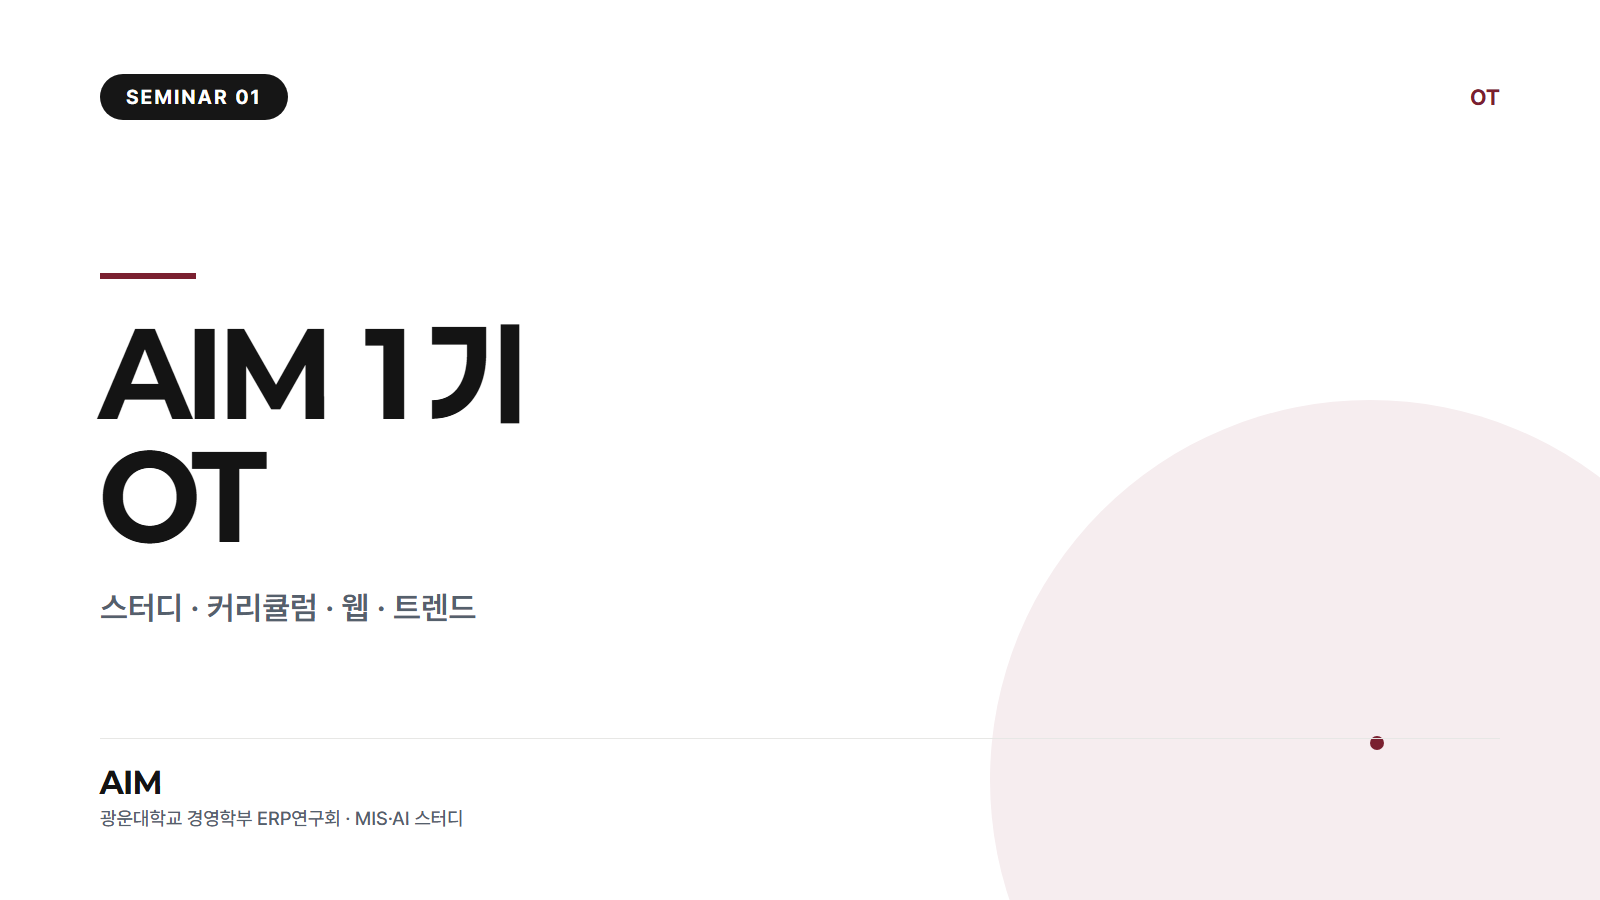
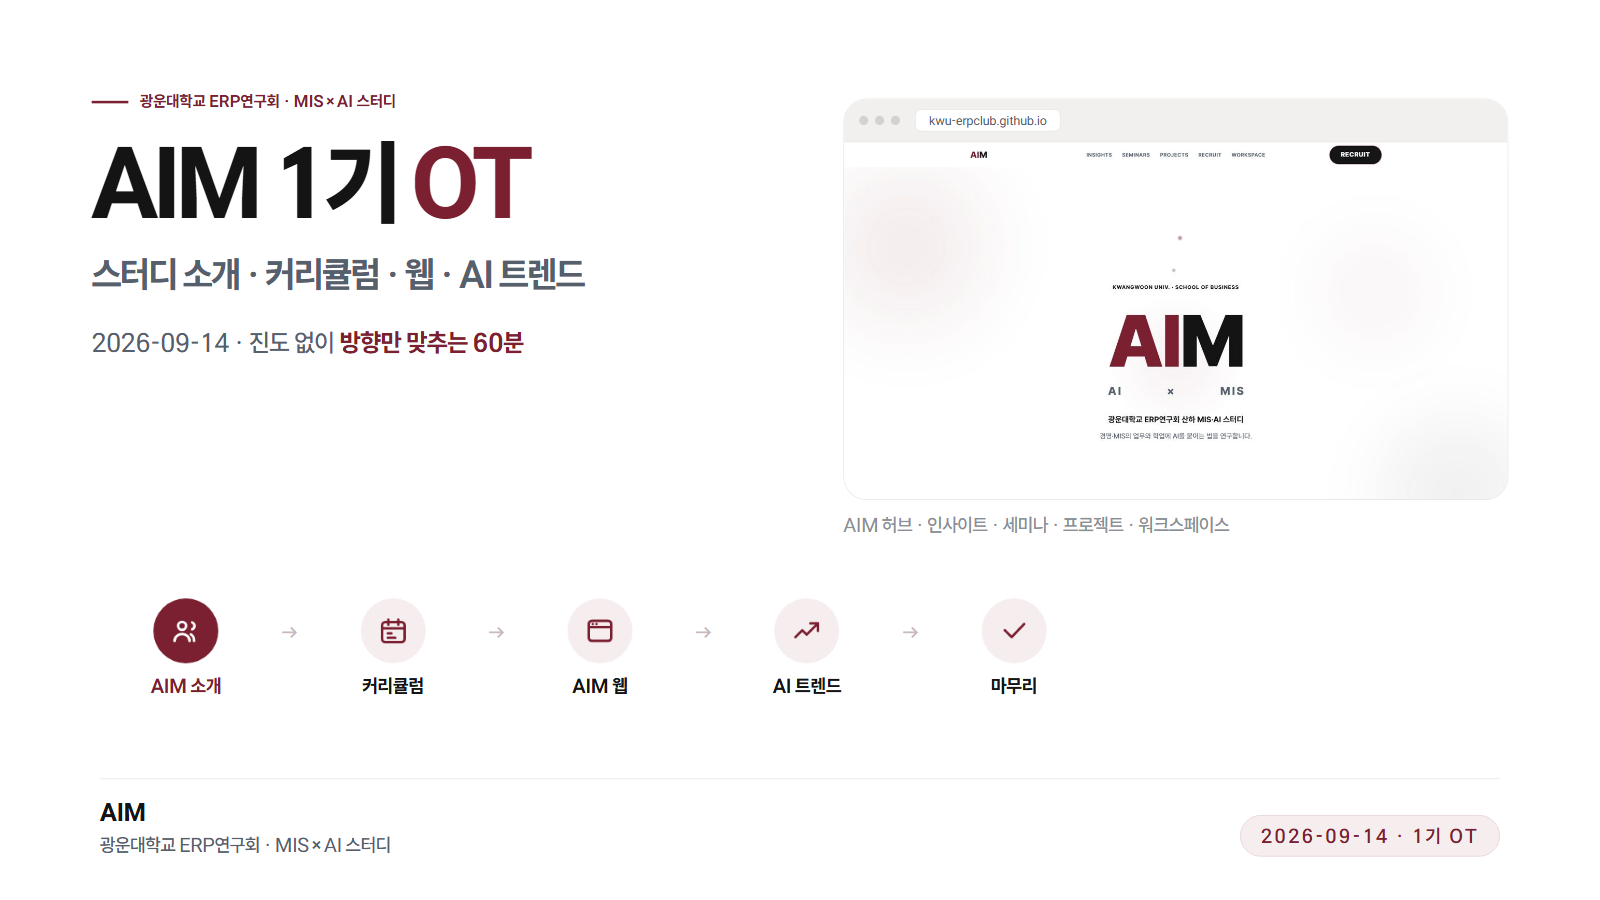
release(v0.16.10): 세미나 표지 썸네일 = 덱 1장 캡처 — 생성기 덱 분기 + 덱 ?cover=1 모드
- export-seminar-cover.mjs: public/slides/<덱>/이 있으면 정적 서버로 덱을 열어 1장을 1600×900으로 찍는다
  (reduced-motion 강제 → 최종 상태). 덱 없는 회차는 종전 서식.
- 덱 s1: ?cover=1 이면 카운터 숨김 + 배율 고정(1600/1920, 좌상단) — 창 높이 계산 오차로 생기던 회색 여백 제거
- cover-s1.png 재생성 · PDF 재생성(덱 변경 동반 규칙) · CHANGELOG · 0.16.10

Claude-Session: https://claude.ai/code/session_01W9TzfpnQTXpHRjhXu6oPyx

diff --git a/app/public/slides/s1/index.html b/app/public/slides/s1/index.html
@@ -494,6 +494,10 @@ ul{margin:0;padding:0;list-style:none}
 :root{--fd:'Freesentation Deck','Freesentation','Apple SD Gothic Neo','Malgun Gothic',sans-serif;--fb:'Freesentation Deck','Freesentation','Apple SD Gothic Neo','Malgun Gothic',sans-serif;--fm:'Freesentation Deck','Freesentation','Consolas',monospace;
   --fs-card-title:34px;--fs-card-body:28px;--fs-sub:24px;--fs-label:20px}
 .band,.dark{font-size:34px}
+/* 표지 캡처 모드(?cover=1) — 세미나 썸네일 생성기가 1장을 찍을 때 카운터 숨김 */
+body.cover #counter{display:none}
+body.cover #deck{display:block}
+body.cover #stage{transform:scale(.83333)!important;transform-origin:top left;position:absolute;left:0;top:0;box-shadow:none}
 /* v5.3 (오너 09-10 픽): 카드 설명 문구는 Medium 이상 — 투사 시 Regular는 얇다 */
 .abcard p,.ptr p,.sps,.gcard p,.tlseg p,.pnode .ps,.roomy .abcard>p,.srct td,.shot .pend p{font-weight:500}
 .hmeta{font-size:20px}
@@ -2536,6 +2540,7 @@ ul{margin:0;padding:0;list-style:none}
     show(e.clientX < innerWidth*0.32 ? cur-1 : cur+1);
   });
 
+  if(/[?&]cover=1/.test(location.search)) document.body.classList.add('cover');
   var h=parseInt((location.hash||'').replace('#',''),10);
   show(isNaN(h)?0:h-1);
 })();

diff --git a/CHANGELOG.md b/CHANGELOG.md
@@ -8,6 +8,16 @@ AIM 허브 사이트의 릴리스 기록. 최신이 위에 온다.
 
 ---
 
+## v0.16.10 (2026-09-10)
+
+### 수정
+- 세미나 목록·상세의 **1기 OT 표지 썸네일이 발표자료 표지와 같아졌다.** 그전에는 별도 서식으로 그린 표지라 자료를 열면 다른 그림이 나왔다.
+
+### 내부
+- 표지 생성기: 슬라이드 덱이 있는 회차는 덱 1장을 그대로 찍는다(덱 없는 회차는 종전 서식 유지). 덱은 `?cover=1`로 열면 페이지 번호를 숨기고 1600×900에 맞춘다.
+
+---
+
 ## v0.16.9 (2026-09-10)
 
 ### 추가
